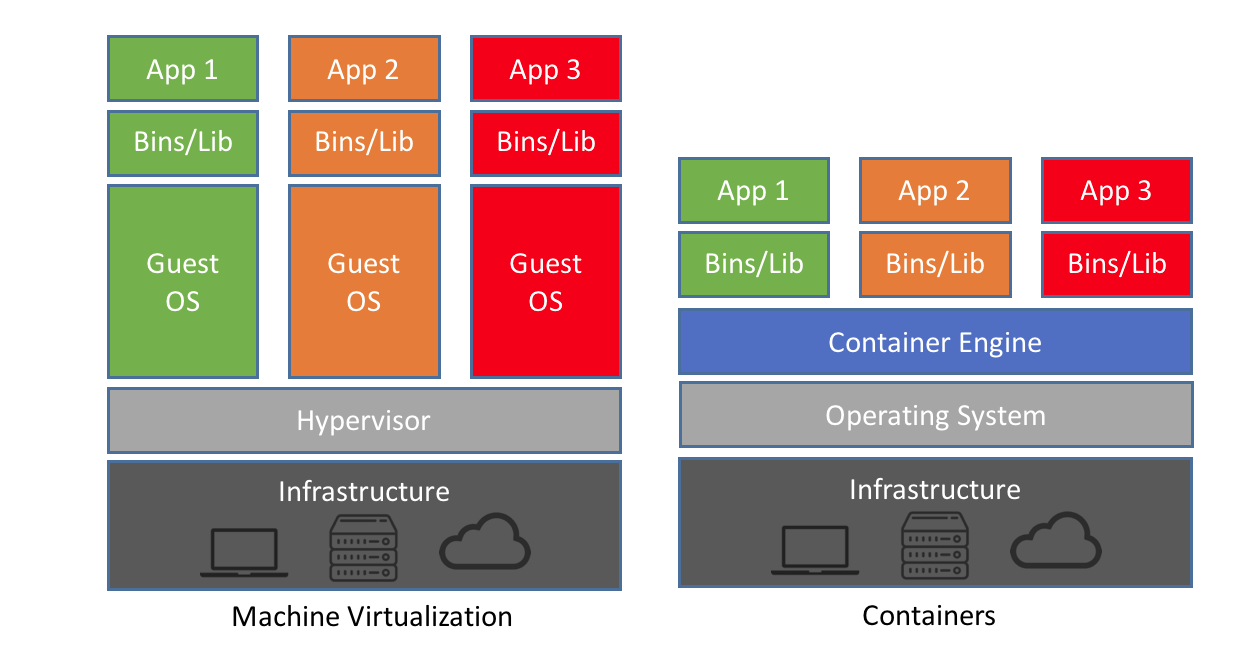
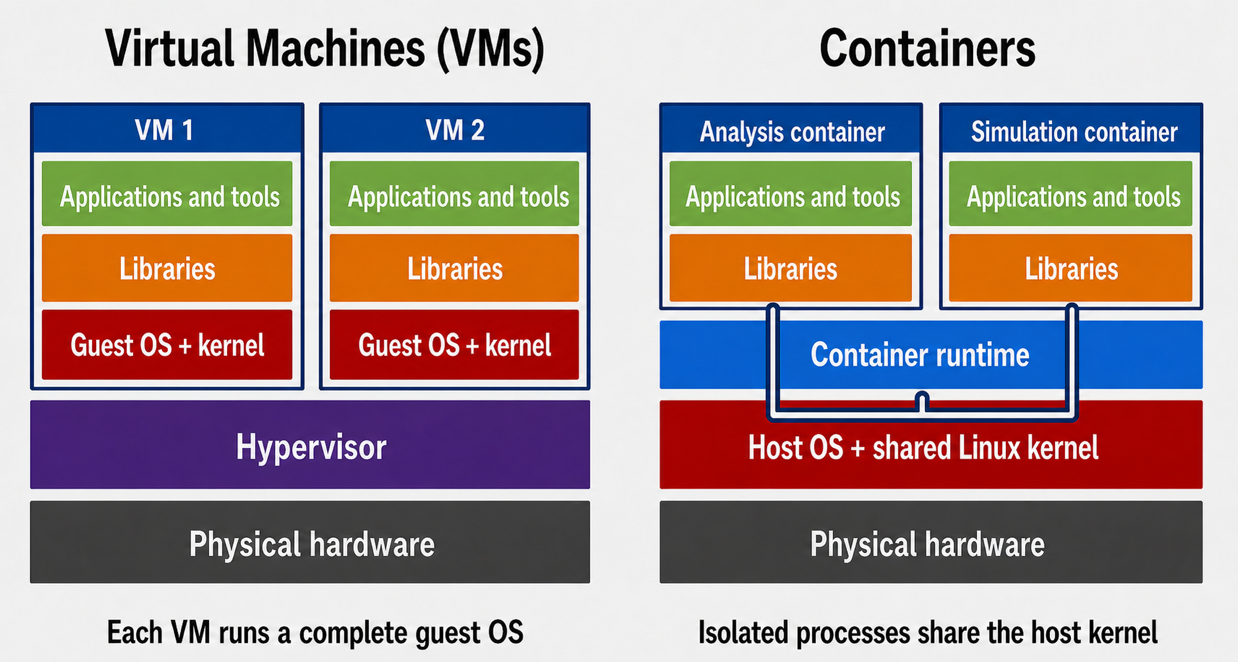
Updating introduction episode (first pass)

diff --git a/_episodes/11-containers-intro.md b/_episodes/11-containers-intro.md
@@ -3,8 +3,11 @@ title: "Introduction to containers"
 teaching: 10
 exercises: 0
 questions:
+- What are containers for?
+- Who is using containers in HPC ecosystems?
 objectives:
-- Define the term "container"
+- 'Define the term: "container" in contrast to "virtual machine"'
+- 'Define other terms like: image and registry'
 - Discuss when you would benefit from using containers in your workflow
 keypoints:
 - Containers enable you to package up an application and its dependencies.
@@ -12,38 +15,62 @@ keypoints:
 ---
 
 
+### What is a container?
+
+A container is a way of running one or more applications in an isolated software environment. The applications, tools, libraries and configuration they need are packaged together in a container image.
+
+Containers are used to distribute software with its dependencies, avoid conflicts between software environments and make workflows easier to reproduce and move between compatible systems. They can be used across personal computers, cloud platforms and HPC systems.
+
 ### Containers vs Virtual Machines
 
-A container is an entity providing an isolated software environment (or filesystem) for an application and its dependencies.  
-
-If you have already used a Virtual Machine, or VM, you're actually already familiar with some of the concepts of a container. 
+If you have already used a Virtual Machine (VM), either on your own computer (for example, using VirtualBox) or through a cloud provider such as Azure, you're already familiar with some of the concepts needed to understand containers.
 
 <!-- ![Containers vs. VMs]({{ page.root }}/fig/container_vs_vm.png) -->
-<img src="{{ page.root }}/fig/container_vs_vm.png" alt="Containers vs. VMs" width="619" height="331"/>
+<img class="img-responsive center-block" src="{{ page.root }}/fig/container_vs_vm.png" alt="Architecture of virtual machines and containers" style="width: 60%;"/>
 
-The key difference here is that VMs virtualise **hardware** while containers virtualise **operating systems**.  There are other differences (and benefits), in particular containers are:
+VMs and containers provide isolation in different ways. A VM behaves like a complete computer running inside another computer, with its own guest operating system and kernel. A container isolates processes but does not boot its own kernel. Instead, **applications inside containers use the host system's Linux kernel**. (More generally, containers share the host system's kernel rather than running their own.)
 
-* lighter weight to run (less CPU and memory usage, faster start-up times)
+The container image supplies the user-space environment required by the application, including applications, tools, libraries and a filesystem.
 
+By sharing the host kernel, containers are generally:
+
+* lighter weight to run (less CPU and memory usage)
+* faster to start
 * smaller in size (thus easier to transfer and share)
 
-* modular (possible to combine multiple containers that work together)
+Container images are also typically built as specialised software environments for a particular application or workflow. This specialisation is a usage convention rather than an architectural difference: an image can contain several applications and tools, but they usually serve a common purpose.
 
+Because containerised applications use the host kernel and CPU architecture, they must be compatible with the host system. For example, Linux containers require a compatible Linux kernel, and an image built for an `x86_64` CPU does not normally run on an `arm64` system, or vice versa. (Cross-architecture execution may be possible through emulation, but it is generally not appropriate for HPC workloads.)
 
-### Containers and your workflow
+### Why use containers?
 
 There are a number of reasons for using containers in your daily work:
 
-* Data reproducibility/provenance
+* Easier software installation and dependency management
+  - "I can't get this software stack to install in the cluster" is often what drives people to containers.
+  - Applications can be packaged together with the libraries and tools they require.
+
 * Cross-system portability
+  - Run the same software environment on your laptop, in the cloud and on HPC systems.
+  - Greatly reduces the "it works on my machine" problem.
+
+* Data reproducibility and software preservation
+  - Helps ensure analyses can be repeated using the same software environment.
+  - Preserve working software environments for months or years.
+  - Useful when revisiting an old project after host operating systems, libraries or compilers have changed.
+
 * Simplified collaboration
-* Simplified software dependencies and management
+  - Share a complete software environment with collaborators
+  - Then, avoid sharing lengthy installation instructions and configuration steps.
+
 * Consistent testing environment
+  - Test software in an environment that closely matches where it will run.
+  - Reduce surprises caused by differences between systems.
 
 A few examples of how containers are being used at Pawsey include:
 
 * Bioinformatics workflows
-* Machine Learning 
+* Machine Learning
 * Python apps in radio astronomy
 * RStudio & Jupyter Notebook sessions
 * Webservers
@@ -58,29 +85,86 @@ Here's an overview of what a typical workflow looks like:
 
 ### Terminology
 
-An **image** is a file (or set of files) that contains the application and all its dependencies, libraries, run-time systems, etc. required to run.  You can copy images around, upload them, download them etc.
+An **image** is a file (or set of files) that contains an application together with its software dependencies, libraries, tools, run-time environment and filesystem. Images can be copied, shared, uploaded and downloaded.
 
-A **container** is an instantiation of an image.  That is, it's a process in execution that got spawned out of an image.  You can run multiple containers from the same image, much like you might run the same application with different options or arguments.
+A **container** is a running instance of an image. In other words, it is a process that has been started from an image. Multiple containers can be launched from the same image, just as the same application can be run multiple times with different inputs or options.
 
-In abstract, an image corresponds to a file, a container corresponds to a process.
+In abstract, an image corresponds to a file, whereas a container corresponds to a process.
 
-A **registry** is a server application where images are stored and can be accessed by users.  It can be public (*e.g.* *Docker Hub*) or private.
+A **registry** is a service that stores and distributes container images. Registries can be public (for example, *Docker Hub* or *Quay.io*) or private. Users can download images from registries and, where permitted, upload their own images for others to use.
 
-To build an image we need a recipe.  A recipe file is called a **Definition File**, or **def file**, in the *Singularity* jargon and a **Dockerfile** in the *Docker* world.
+To create an image, we need a recipe describing the software to install and how the image should be assembled. This recipe is called a **Definition File** (or **def file**) in the *Singularity* and *Apptainer* ecosystem, and a **Dockerfile** in the *Docker* ecosystem.
 
 
 ### Container engines
 
-A number of tools are available to create, deploy and run containerised applications.  Some of these will be covered throughout this tutorial:
+A number of tools are available to create, distribute and run containerised applications. Some of these will be covered throughout this tutorial:
 
-* **Docker**: the first engine to gain popularity, still widely used in the IT industry.  Not very suitable for HPC as it requires *root* privileges to run. We'll use it mostly to build container images.
+* **Docker**: the most widely used container platform and image ecosystem. Docker is commonly used on personal computers, cloud systems and CI/CD platforms to build and distribute container images. Although Docker itself is not typically used directly on shared HPC systems, Docker images are commonly used as the starting point for HPC container workflows. See the extensive [docker documentation](https://docs.docker.com/) for more information.
 
-* **Singularity**: a simple, powerful container engine for the HPC world.  The main focus of this workshop.
+* **Singularity**: a container engine designed for HPC environments, allowing users to run containers without requiring elevated privileges. Many existing HPC container workflows and images continue to use the Singularity name and image format. See the extensive [singularity documentation](https://docs.sylabs.io/guides/latest/user-guide/) for more information.
 
-* **Shifter/Sarus**: a Docker-compatible container engine, suitable for HPC.  Can run containers, cannot build them.
+* **Apptainer**: an open-source continuation of the Singularity project. It provides the same core functionality and is becoming the standard open-source container engine on many HPC systems. Throughout this tutorial, most commands and concepts apply equally to Singularity and Apptainer. See the [apptainer documentation](https://apptainer.org/docs/user/main/) for more information.
 
-* **Charliecloud**: a Docker-compatible tool for lightweight, user-defined software stacks for high-performance computing.
+Other container engines (not covered here) include:
 
-* **Enroot**: Nvidia's take on containers, a simple, yet powerful tool to turn traditional container/OS images into unprivileged sandboxes.
+* **Shifter/Sarus**: container runtimes designed for HPC systems with support for Docker-compatible images.
+* **Charliecloud**: a lightweight container solution designed for HPC environments.
+* **Enroot**: a lightweight container runtime developed by NVIDIA, commonly used for GPU-focused workloads.
+* **Podman**: a daemonless, rootless container engine that is increasingly used as an alternative to Docker.
 
-* **Podman**: a *root*-less alternative to Docker.  Catching up quickly with HPC requirements.
+### Get ready for the hands-on
+
+Before we start, let us ensure we have the required files to run the tutorials.
+
+If you haven't done it already, download the following Github repo.  Then `cd` into it, and save the current directory into a variable named `TUTO` for later use.
+
+```bash
+$ cd ~
+$ git clone https://github.com/PawseySC/singularity-containers
+$ cd singularity-containers
+$ export TUTO=$(pwd)
+```
+{: .source}
+
+> ## Want to save time later in the tutorial?
+>
+> > ## Read this
+> > Open a second terminal in the machine where you're running the tutorial, then run the script `pull_big_images.sh` to start downloading a few images that you'll require later:
+> >
+> > ```
+> > $ cd $TUTO/demos
+> > $ nohup bash ./pull_big_images.sh &
+> > ```
+> > {: .source}
+> >
+> > **Alternatively**, if you are running at Pawsey, *e.g.* on Zeus, submit this other script with Slurm instead:
+> >
+> > ```
+> > $ cd $TUTO/demos
+> > $ sbatch ./sbatch_pull_big_images.sh
+> > ```
+> > {: .source}
+> >
+> > This pull process will take at least one hour. Meanwhile, you'll be able to keep on going with this episode in your main terminal window.
+> >
+> {: .solution}
+{: .challenge}
+
+
+> ## Are you running on a shared HPC system?
+>
+> If you're running this tutorial on a shared system (*e.g.* on Zeus or Magnus at Pawsey), you should use one of the compute nodes rather than the login node.  You can get this setup by using an interactive scheduler allocation, for instance on Zeus with Slurm:
+>
+> ```
+> $ salloc -n 1 -t 4:00:00
+> ```
+> {: .source}
+>
+> ```
+> salloc: Granted job allocation 3453895
+> salloc: Waiting for resource configuration
+> salloc: Nodes z052 are ready for job
+> ```
+> {: .output}
+{: .callout}
